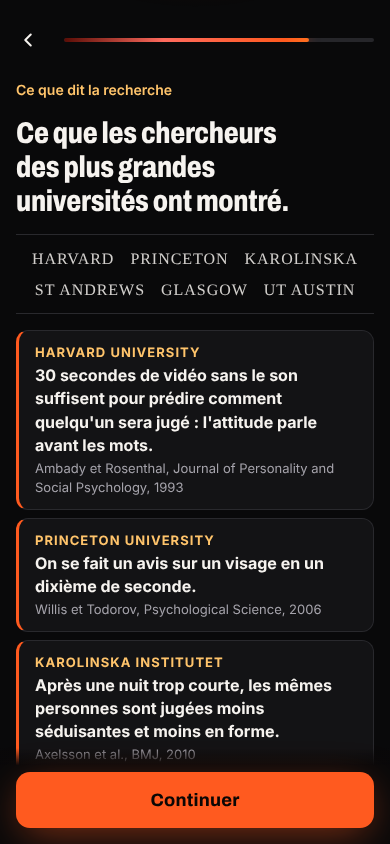
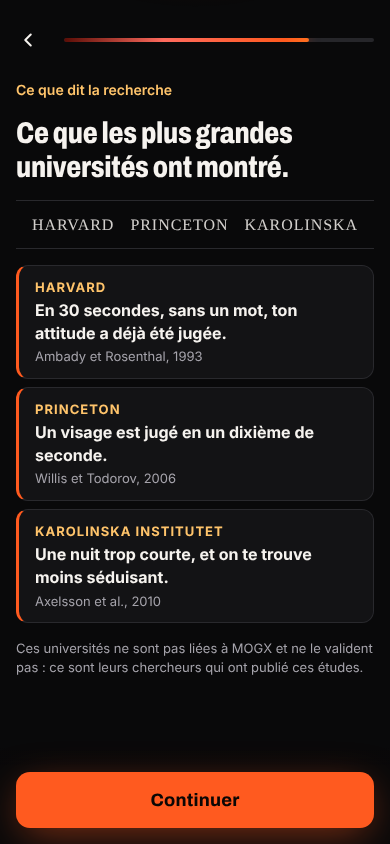
retours du test sur téléphone : plus de faux « mineur » à l'analyse, ovale de caméra, consigne selfie simple, réponses du style, écran des études réduit à l'essentiel
Claude-Session: https://claude.ai/code/session_014jgUVVEcSY5o2hZDxT4Svp

diff --git a/src/shared/questions.js b/src/shared/questions.js
@@ -70,8 +70,8 @@ const _SCREENS = [
     options: [o("jamais", "", "Non, je ne fais pas de sport"), o("libre", "", "J'en fais, mais sans programme"), o("programme", "", "Oui, je suis un vrai programme")] },
   { id: "alimentation", type: "single", title: "Tu manges équilibré, en général ?",
     options: [o("rarement", "", "Presque jamais"), o("parfois", "", "Parfois"), o("souvent", "", "Presque toujours")] },
-  { id: "style", type: "single", title: "Ton style aujourd'hui ?",
-    options: [o("sweat", "👕", "Sweat et ce qui est propre"), o("noir", "🖤", "Tout en noir"), o("streetwear", "🧢", "Streetwear et baskets"), o("chic", "👔", "Chic décontracté, sans prendre de risque"), o("aucun", "🤷", "Je n'en ai pas vraiment")] },
+  { id: "style", type: "single", title: "Tu t'habilles comment, la plupart du temps ?",
+    options: [o("sweat", "👕", "Basique", "Jean, t-shirt, sweat"), o("streetwear", "🧢", "Streetwear", "Baskets, oversize, casquette"), o("sport", "🏃", "Sportswear", "Jogging, survêt, baskets"), o("noir", "🖤", "Tout en noir", "Simple et sombre"), o("chic", "👔", "Chic décontracté", "Chemise, chino, chaussures en cuir"), o("aucun", "🤷", "Je ne fais pas attention", "Je mets ce qui traîne")] },
   { id: "avant_apres", type: "contrast" },
   { id: "projection", type: "projection", skipIf: (a) => !a.consent },
   { id: "recap", type: "recap", cta: "On continue" },
@@ -99,16 +99,14 @@ const _SCREENS = [
   agreeQ("dire_non", "Je sais dire non sans culpabiliser.", {
     echo: (a) => (["bloque", "gene"].includes(a.aborder) ? "Tu bloques face à quelqu'un qui te plaît. Souvent, ce n'est pas le visage : c'est la posture et le regard. Ça s'entraîne." : "") }),
   // Vraies études publiées (vérifiables). Les universités ne valident PAS MOGX : la phrase « fine » le dit, elle doit rester.
-  { id: "science", type: "info", eyebrow: "Ce que dit la recherche", title: "Ce que les chercheurs des plus grandes universités ont montré.",
-    unis: ["Harvard", "Princeton", "Karolinska", "St Andrews", "Glasgow", "UT Austin"],
+  // Vraies études publiées (vérifiables). Les universités ne valident PAS MOGX : la phrase « fine » le dit, elle doit rester.
+  { id: "science", type: "info", eyebrow: "Ce que dit la recherche", title: "Ce que les plus grandes universités ont montré.",
+    unis: ["Harvard", "Princeton", "Karolinska"],
     sources: [
-      ["30 secondes de vidéo sans le son suffisent pour prédire comment quelqu'un sera jugé : l'attitude parle avant les mots.", "Harvard University", "Ambady et Rosenthal, Journal of Personality and Social Psychology, 1993"],
-      ["On se fait un avis sur un visage en un dixième de seconde.", "Princeton University", "Willis et Todorov, Psychological Science, 2006"],
-      ["Après une nuit trop courte, les mêmes personnes sont jugées moins séduisantes et moins en forme.", "Karolinska Institutet", "Axelsson et al., BMJ, 2010"],
-      ["Manger plus de fruits et légumes rend le teint plus sain aux yeux des autres, en 6 semaines.", "University of St Andrews", "Whitehead et al., PLoS ONE, 2012"],
-      ["La même personne peut paraître très différente d'une photo à l'autre : lumière, angle, expression.", "University of Glasgow", "Jenkins et al., Cognition, 2011"],
-      ["L'apparence change la façon dont on est jugé et traité, d'après plus de 900 études réunies.", "University of Texas at Austin", "Langlois et al., Psychological Bulletin, 2000"]],
-    fine: "Ces universités ne sont pas liées à MOGX et ne le valident pas : ce sont leurs chercheurs qui ont publié ces études. Ton plan s'appuie sur ce qu'elles montrent.",
+      ["En 30 secondes, sans un mot, ton attitude a déjà été jugée.", "Harvard", "Ambady et Rosenthal, 1993"],
+      ["Un visage est jugé en un dixième de seconde.", "Princeton", "Willis et Todorov, 2006"],
+      ["Une nuit trop courte, et on te trouve moins séduisant.", "Karolinska Institutet", "Axelsson et al., 2010"]],
+    fine: "Ces universités ne sont pas liées à MOGX et ne le valident pas : ce sont leurs chercheurs qui ont publié ces études.",
     cta: "Continuer" },
   { id: "mal_a_l_aise", type: "single", title: "Tu te sens souvent mal à l'aise quand tu parles aux autres ?",
     options: [o("oui", "", "Oui"), o("non", "", "Non"), o("sais_pas", "", "Je ne sais pas")] },

diff --git a/src/q/app.js b/src/q/app.js
@@ -107,7 +107,8 @@ const MODULES = { peau: "Peau nette", cheveux: "Coupe et cheveux", corps: "Corps
 // ---------- Accords au féminin ----------
 // Les textes sont écrits au masculin ; pour une femme on accorde, et on retire ce qui ne la concerne pas (barbe).
 const FEM = [[/Je suis prêt\b/g, "Je suis prête"], [/senti mis de côté/g, "sentie mise de côté"], [/inquiet ou débordé/g, "inquiète ou débordée"],
-  [/pris au sérieux/g, "prise au sérieux"], [/maître de moi/g, "maîtresse de moi"], [/Nerveux,/g, "Nerveuse,"], [/coupe, barbe, sommeil/g, "coupe, sourcils, sommeil"]];
+  [/pris au sérieux/g, "prise au sérieux"], [/maître de moi/g, "maîtresse de moi"], [/Nerveux,/g, "Nerveuse,"], [/coupe, barbe, sommeil/g, "coupe, sourcils, sommeil"],
+  [/Chemise, chino/g, "Chemisier, blazer"], [/Jogging, survêt/g, "Legging, jogging"], [/moins séduisant\b/g, "moins séduisante"]];
 const gx = (t) => (S.answers.genre === "femme" && typeof t === "string" ? FEM.reduce((x, [a, b]) => x.replace(a, b), t) : t);
 function genderize(s) {
   if (S.answers.genre !== "femme") return s;
@@ -115,6 +116,7 @@ function genderize(s) {
   for (const k of ["title", "lead", "cta", "eyebrow", "note", "confirm"]) if (out[k]) out[k] = gx(out[k]);
   if (out.options) out.options = out.options.filter((x) => x.id !== "barbe").map((x) => ({ ...x, label: gx(x.label), ...(x.hint ? { hint: gx(x.hint) } : {}) }));
   if (out.echo) { const e = out.echo; out.echo = (a) => gx(e(a)); }
+  if (out.sources) out.sources = out.sources.map(([f, ...rest]) => [gx(f), ...rest]);
   return out;
 }
 
@@ -191,7 +193,7 @@ const VIEWS = {
         <figure class="example"><div class="example__art example__art--photo"><img src="/img/carte-${S.answers.genre === "femme" ? "femme" : "homme"}.webp" alt="" width="600" height="800" decoding="async"><span class="frame" aria-hidden="true"></span></div><span class="example__num">1</span><figcaption>De face</figcaption></figure>
         <figure class="example"><div class="example__art example__art--profile">${PROFILE_ART}<span class="frame" aria-hidden="true"></span></div><span class="example__num">2</span><figcaption>De profil</figcaption></figure>
       </div>
-      <ul class="tips"><li>Pleine lumière, face à une fenêtre</li><li>Sans lunettes ni casquette, expression neutre</li><li>${S.answers.genre === "femme" ? "Seule" : "Seul"} sur la photo</li></ul>
+      <p class="lead">Un selfie de toi, bien éclairé, sans lunettes ni casquette.</p>
       ${footer(`<p class="consent-line">En touchant « Prendre mes selfies », tu acceptes que notre IA analyse ton visage sur ces 2 photos pour calculer ta note. Jamais enregistrées, vues par personne. <a href="/biometrie/" target="_blank" rel="noopener">Détails</a></p><button class="btn btn--primary" data-selfies>${ICON_CAM} Prendre mes selfies</button><button class="btn btn--ghost" data-noscan>Continuer sans photo</button>`)}
     </main>`;
   },
@@ -221,9 +223,9 @@ const VIEWS = {
       <h1 class="sr-only" tabindex="-1">Selfie ${name}</h1>
       <div class="cam">
         <video id="cam-video" playsinline muted autoplay></video>
-        <svg class="cam__oval" viewBox="0 0 100 133" preserveAspectRatio="none" aria-hidden="true"><ellipse cx="50" cy="60" rx="32" ry="${k === "face" ? 40 : 42}"/></svg>
+        <svg class="cam__oval" viewBox="0 0 100 133" preserveAspectRatio="xMidYMid meet" aria-hidden="true"><ellipse cx="50" cy="60" rx="${k === "face" ? 29 : 31}" ry="42"/></svg>
         <span class="cam__step">${k === "face" ? "1/2" : "2/2"} · ${k === "face" ? "De face" : "De profil"}</span>
-        <div class="cam__example" aria-hidden="true">${k === "face" ? faceMesh({ className: "mesh" }) : PROFILE_ART}</div>
+        <div class="cam__example" aria-hidden="true">${k === "face" ? `<img src="/img/carte-${S.answers.genre === "femme" ? "femme" : "homme"}.webp" alt="">` : PROFILE_ART}</div>
         <label class="cam__gallery"><input type="file" accept="image/*" data-shot="${k}" aria-label="Choisir une photo ${name} dans ta galerie">${ICON_GALLERY}</label>
         <button class="cam__shutter" data-shoot aria-label="Prendre la photo ${name}"></button>
       </div>

diff --git a/lib/prompts.js b/lib/prompts.js
@@ -2,14 +2,14 @@
 // v1 (24/11/2026) : première version du scan.
 import { FACTORS } from "../src/shared/factors.js";
 
-export const SCAN_PROMPT_VERSION = "scan-v1";
+export const SCAN_PROMPT_VERSION = "scan-v2"; // v2 (27/11/2026) : plus d'estimation de l'âge (faux « mineur » sur des 20 ans) ; l'âge est celui déclaré dans le quiz
 
 export const SCAN_SYSTEM = `Tu analyses l'apparence d'un adulte à partir de 2 photos qu'il a prises lui-même (face et profil) et pour lesquelles il a donné son accord. Le but : lui donner un point de départ et lui dire ce qui se travaille avec des habitudes.
 
 Règles :
 - Tu décris l'apparence sur ces photos, rien d'autre. Pas de diagnostic médical, pas de supposition sur la santé, l'origine, la religion, l'orientation ou la personnalité.
 - Tu n'identifies personne et tu ne compares à aucune personne réelle.
-- Si les photos ne montrent pas un visage, en montrent plusieurs, sont trop floues ou trop sombres, ou si la personne semble avoir moins de 18 ans : remplis "probleme" et mets 0 partout.
+- Si les photos ne montrent pas un visage, en montrent plusieurs, ou sont trop floues ou trop sombres : remplis "probleme" et mets 0 partout. N'estime pas l'âge : la personne a déclaré avoir 18 ans ou plus.
 - Ton direct, bienveillant, tutoiement. Jamais d'insulte, jamais de moquerie, jamais de chirurgie ni de médicament.
 - Chaque phrase fait moins de 110 caractères et dit ce qu'on voit, puis, si ça se travaille, la piste concrète.
 
@@ -31,7 +31,7 @@ export const SCAN_SCHEMA = {
   additionalProperties: false,
   required: ["probleme", "criteres"],
   properties: {
-    probleme: { type: "string", enum: ["aucun", "pas_de_visage", "plusieurs_visages", "photo_inutilisable", "semble_mineur"] },
+    probleme: { type: "string", enum: ["aucun", "pas_de_visage", "plusieurs_visages", "photo_inutilisable"] },
     criteres: {
       type: "array",
       items: {

diff --git a/lib/plan.js b/lib/plan.js
@@ -9,7 +9,7 @@ export function priorities(answers = {}, factors = null) {
   const w = { peau: 1, cheveux: 1, corps: 1, style: 1, presence: 1 };
   (answers.difficultes || []).forEach((d, i) => { const dom = DOMAIN_OF_DIFFICULTE[d]; if (dom) w[dom] += i === 0 ? 3 : 1.5; });
   if (answers.morpho === "enrobee") w.corps += 1.5;
-  if (answers.style === "aucun" || answers.style === "sweat") w.style += 1;
+  if (["aucun", "sweat", "sport"].includes(answers.style)) w.style += 1;
   if (["bloque", "gene"].includes(answers.aborder)) w.presence += 1;
   // réponses du quiz détaillé (peau, cheveux, corps, présence)
   if (answers.peau_acne === "souvent") w.peau += 2; else if (answers.peau_acne === "parfois") w.peau += 0.8;

diff --git a/src/q/quiz.css b/src/q/quiz.css
@@ -280,3 +280,4 @@
 .unis span { font-family: Georgia, "Times New Roman", serif; font-size: var(--fs-base); letter-spacing: .06em; text-transform: uppercase; color: var(--c-text); opacity: .85; }
 .sources__uni { color: var(--c-gold) !important; font-size: var(--fs-xs); font-weight: 700; letter-spacing: .08em; text-transform: uppercase; }
 .fine { margin: 0; color: var(--c-text-muted); font-size: var(--fs-xs); line-height: 1.45; }
+.cam__example img { width: 100%; height: 100%; object-fit: cover; }

diff --git a/CLAUDE.md b/CLAUDE.md
@@ -13,7 +13,7 @@ Maël est cuisinier, pas développeur. **Toujours répondre en français**, dans
 
 - Aucune photo de visage enregistrée, nulle part (ni base, ni disque, ni logs).
 - Consentement biométrique avant la caméra, refus aussi simple que l'accord : depuis le 27/11/2026 (choix de Maël, moins de friction), plus d'écran séparé, une phrase juste au-dessus du bouton « Prendre mes selfies » (« Continuer sans photo » juste en dessous). Ne jamais retirer cette phrase.
-- Pas de moins de 18 ans.
+- Pas de moins de 18 ans : bloqué par l'âge déclaré dans le quiz. L'IA n'estime plus l'âge sur les photos (scan-v2, 27/11/2026 : elle prenait des 20 ans pour des mineurs).
 - Aucun faux avis, aucun chiffre inventé (notes, nombre de scans, « tendance »).
 - Prix TTC en euros, prix de renouvellement écrit au-dessus du bouton, résiliation en 3 clics.
 - Aucune clé secrète dans le code : Cloudflare (Variables and secrets) ou `.dev.vars` en local (jamais commité).
